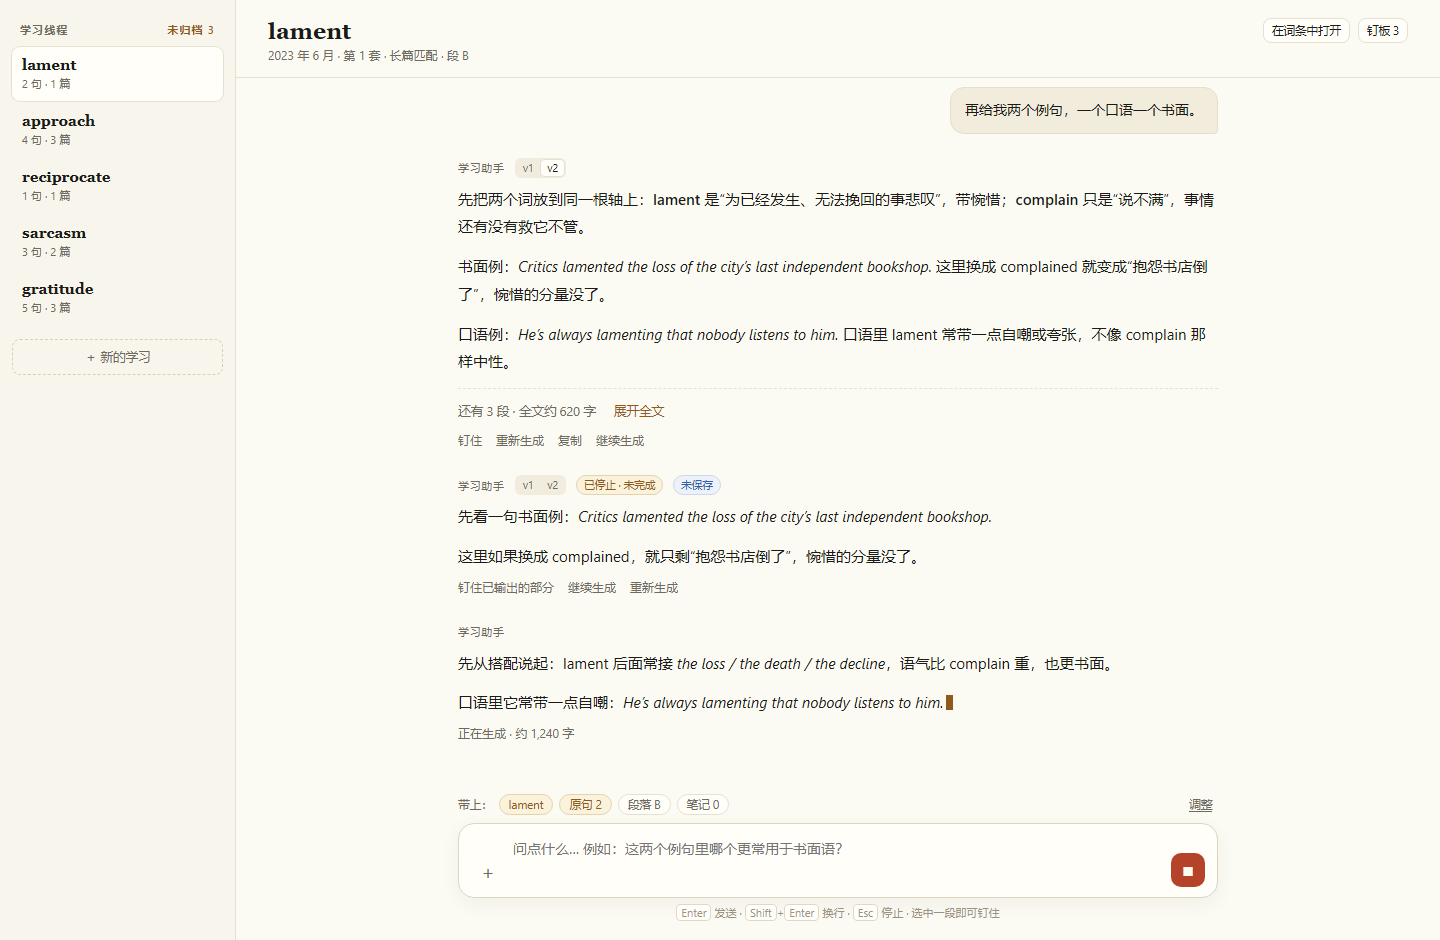
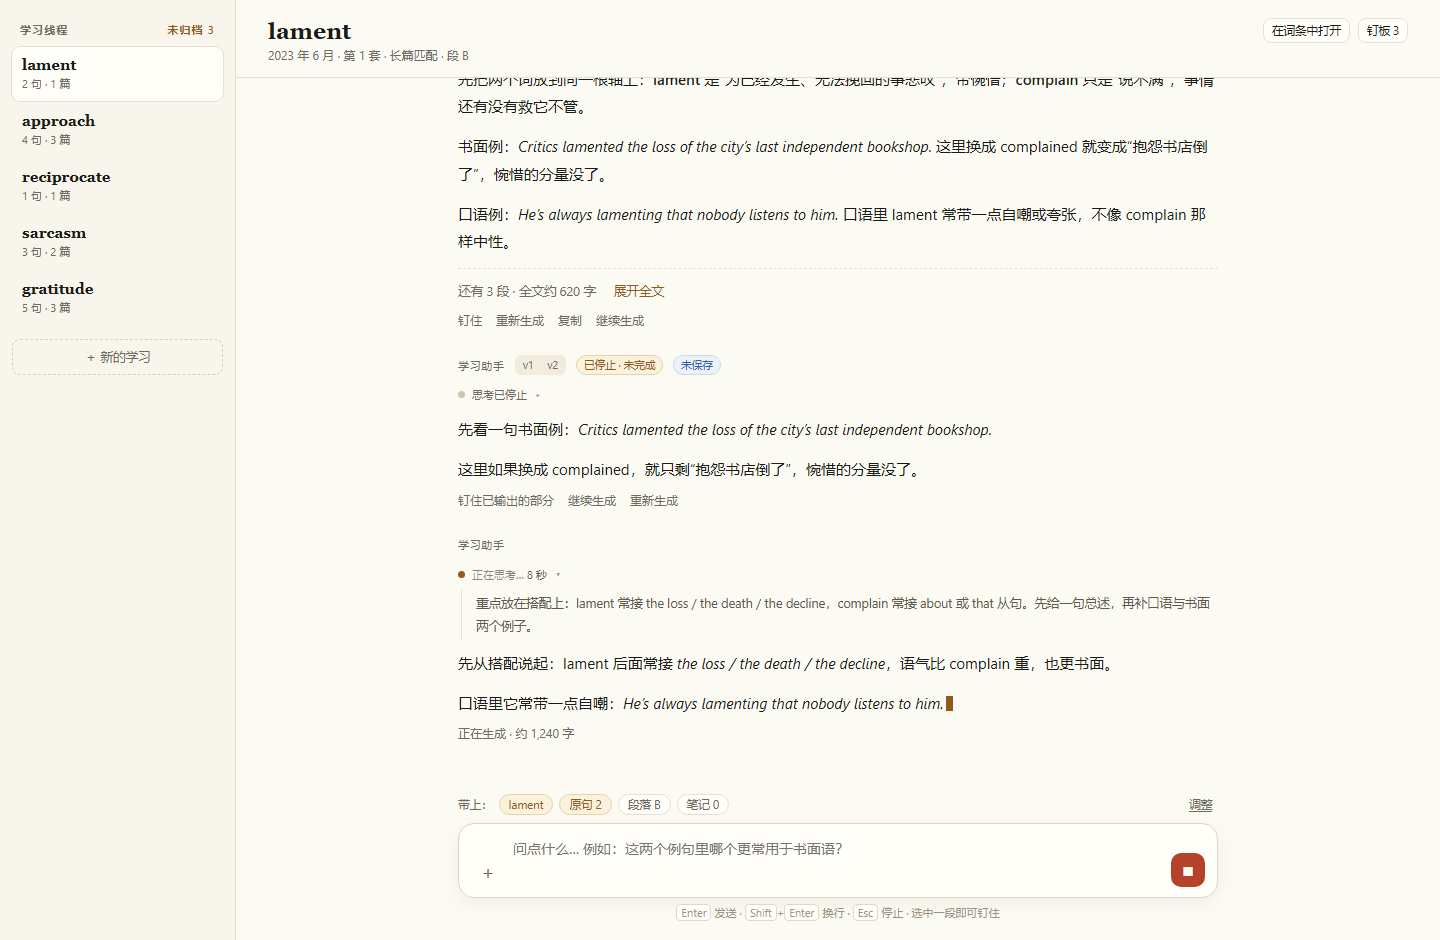
Add reasoning timeline to chat prototype
Thinking sits above the answer as a collapsible line (已思考 N 秒 / 正在思考… / 思考已停止), following chat-demo's ReplyArea shape. Refs #17.

Changed region(s): [[0.3125, 0.0617, 0.8438, 0.6787], [0.3125, 0.7404, 0.6562, 0.7713]]

diff --git a/docs/prototypes/chat-pin-states.html b/docs/prototypes/chat-pin-states.html
@@ -139,6 +139,20 @@
   .boardbtn{position:fixed;right:22px;bottom:78px;z-index:70;display:flex;align-items:center;gap:7px;background:var(--panel);border:1px solid var(--rule);border-radius:999px;padding:8px 14px;font-size:12.5px;box-shadow:0 6px 20px rgba(60,48,30,.12)}
   .boardbtn b{color:var(--accent)}
 
+  /* ---------- 思考区 ---------- */
+  .think{margin:0 0 10px}
+  .think .th{display:inline-flex;align-items:center;gap:7px;font-size:12.5px;color:var(--muted);cursor:pointer;padding:2px 0}
+  .think .th:hover{color:var(--ink)}
+  .think .dot{width:7px;height:7px;border-radius:50%;background:#CFC5AF;flex:none}
+  .think.active .dot{background:var(--accent);animation:pulse 1.1s ease-in-out infinite}
+  @keyframes pulse{50%{opacity:.25}}
+  .think.active .tt{background:linear-gradient(90deg,#8C8677 20%,#2B2A25 50%,#8C8677 80%);background-size:200% 100%;-webkit-background-clip:text;background-clip:text;color:transparent;animation:shimmer 1.8s linear infinite}
+  @keyframes shimmer{to{background-position:-200% 0}}
+  .think .chev{font-size:10px;color:#9A9384}
+  .think .pad{border-left:1px solid var(--rule);margin:4px 0 0 3px;padding:2px 0 2px 14px;font-size:12.5px;line-height:1.85;color:#5E594C}
+  .think .pad p{margin:0 0 .55em}
+  .think .pad p:last-child{margin-bottom:0}
+
   /* ---------- 钉住弹层 ---------- */
   .pop{position:fixed;z-index:100;width:360px;background:var(--panel);border:1px solid var(--rule);border-radius:12px;box-shadow:0 20px 50px rgba(40,32,20,.18);padding:14px 16px}
   .pop h4{margin:0 0 3px;font-family:"Source Serif 4",Sitka,Georgia,serif;font-size:15px}
@@ -203,6 +217,7 @@ const S={
   pinned:{},               // "mi:pi" -> target
   selBar:null,             // {x,y,text}
   ver:{1:"v2",3:"v2"},
+  thinkOpen:{9:true},
   board:3,
   editBanner:false,
 };
@@ -237,9 +252,19 @@ function longBody(){
 function botMsg(mi,bodyHTML,opts={}){
   return `<div class="bot" data-mi="${mi}">
     ${botHead(mi,opts)}
+    ${opts.think?thinkBlock(mi,opts.think):""}
     <div class="body">${bodyHTML}</div>
     ${opts.quote||""}
     <div class="acts">${opts.acts||""}</div>
+  </div>`;
+}
+function thinkBlock(mi,o={}){
+  const open=S.thinkOpen[mi]!==undefined?S.thinkOpen[mi]:!!o.open;
+  return `<div class="think ${o.active?"active":""}" data-mi="${mi}">
+    <div class="th" data-act="think" data-mi="${mi}">
+      <span class="dot"></span><span class="tt">${o.label}</span><span class="chev">${open?"▾":"▸"}</span>
+    </div>
+    ${open?`<div class="pad">${o.text}</div>`:""}
   </div>`;
 }
 const Q1=`<div class="quote">“Left alone on an unknown island with no apparent prospect of rescue or escape, Crusoe has much to <b>lament</b>.”<span class="src">2023 年 6 月 · 第 1 套 · 长篇匹配 · 段 B · 第 6 页</span></div>`;
@@ -267,17 +292,18 @@ function threadBody(v){
   const m1=userMsg("lament 在这句里是“惋惜”还是“抱怨”？和 gratitude 对照着讲。",0);
   const m2=botMsg(1,
     `<p><b>lament</b>（v.）是“为已经发生、无法挽回的事悲叹”，语气里带惋惜；<b>complain</b> 只是“说不满”，事情还能不能补救它不管。原文里 Crusoe 不是抱怨处境，是在数自己还剩下的东西，所以用 lament 才接得上后面的感恩。</p>`,
-    {ver:true,quote:Q1,acts:acts(1)});
+    {ver:true,quote:Q1,acts:acts(1),think:{label:"已思考 9 秒",text:"<p>先把差别定在“能不能补救”上：lament 的事已经发生、无法挽回，所以是惋惜；complain 的对象还有没有救它不管，只是不满。</p><p>原文里 Crusoe 在数自己还剩什么，是哀悼之后转向感恩，作者不会用 complain。</p>"}});
   const m3=userMsg("再给我两个例句，一个口语一个书面。",2);
-  const m4=botMsg(3,longBody(),{ver:true,acts:acts(3,{extra:`<button data-act="toast" data-msg="继续生成">继续生成</button>`})});
+  const m4=botMsg(3,longBody(),{ver:true,acts:acts(3,{extra:`<button data-act="toast" data-msg="继续生成">继续生成</button>`}),think:{label:"已思考 27 秒",text:"<p>要两个例句：书面挑书评类场景，口语挑带自嘲的日常抱怨，避免都落在同一个语境里。</p>"}});
   const m5=S.stopped[0]?botMsg(4,
     `<p>先看一句书面例：<i>Critics lamented the loss of the city’s last independent bookshop.</i></p>
      <p>这里如果换成 complained，就只剩“抱怨书店倒了”，惋惜的分量没了。</p>`,
-    {ver:true,stopped:true,unsaved:true,acts:`<button data-act="pin" data-mi="4">钉住已输出的部分</button><button data-act="gen" data-mi="4">继续生成</button><button data-act="regen" data-mi="4">重新生成</button>`}):"";
+    {ver:true,stopped:true,unsaved:true,think:{label:"思考已停止",text:"<p>正在拟第三个例句，连接断了。</p>"},acts:`<button data-act="pin" data-mi="4">钉住已输出的部分</button><button data-act="gen" data-mi="4">继续生成</button><button data-act="regen" data-mi="4">重新生成</button>`}):"";
   const streamBlock=S.streaming?botMsg(9,
     `<p>先从搭配说起：lament 后面常接 <i>the loss / the death / the decline</i>，语气比 complain 重，也更书面。</p>
      <p>口语里它常带一点自嘲：<i>He’s always lamenting that nobody listens to him.</i><span class="caret"></span></p>`,
-    {acts:`<span style="color:var(--muted)">正在生成 · 约 1,240 字</span>`}):"";
+    {think:{label:"正在思考… 8 秒",active:true,open:true,text:"<p>重点放在搭配上：lament 常接 the loss / the death / the decline，complain 常接 about 或 that 从句。先给一句总述，再补口语与书面两个例子。</p>"},
+     acts:`<span style="color:var(--muted)">正在生成 · 约 1,240 字</span>`}):"";
   const errBlock=S.err?`<div class="err">服务繁忙（503），这次生成中断了。已输出的 2 段保留在本条里，可标“未完成”后保存。
       <div class="row"><button data-act="retry">重试</button><button data-act="toast" data-msg="换上更小的模型，或稍后再试">换模型</button><button data-act="toast" data-msg="打开设置 · 模型">查看设置</button></div></div>`:"";
   return m1+m2+m3+m4+m5+streamBlock+errBlock;
@@ -477,6 +503,7 @@ function bind(){
       else if(a==="long"){S.longOpen=!S.longOpen;render();}
       else if(a==="regen"){toast("重新生成会产生新版本，旧钉住不受影响");}
       else if(a==="ver"){S.ver[el.dataset.mi]=el.dataset.v;render();}
+      else if(a==="think"){const mi=el.dataset.mi;S.thinkOpen[mi]=!S.thinkOpen[mi];render();}
       else if(a==="pin"){openPin(e,el.dataset.mi);}
       else if(a==="spin"){openSelPin(el.dataset.text,e);}
       else if(a==="pinok"){confirmPin();}
